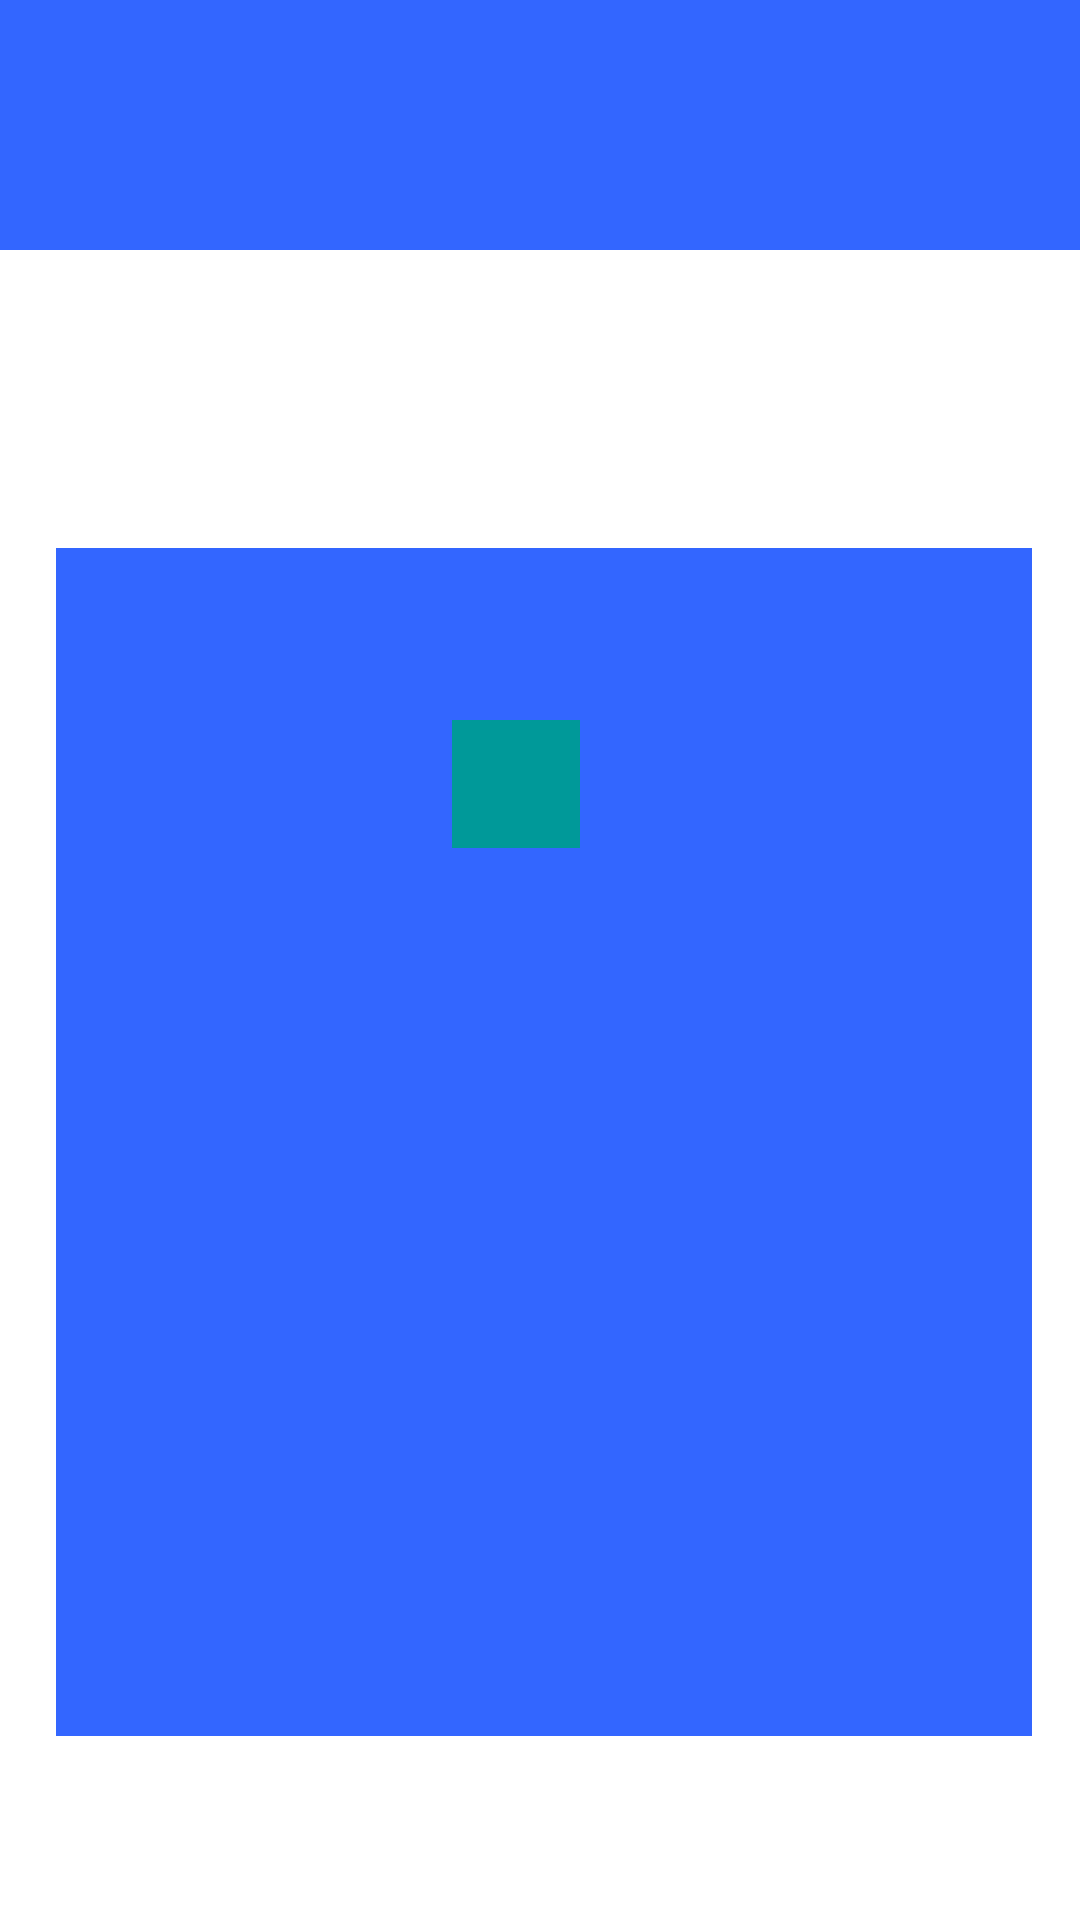
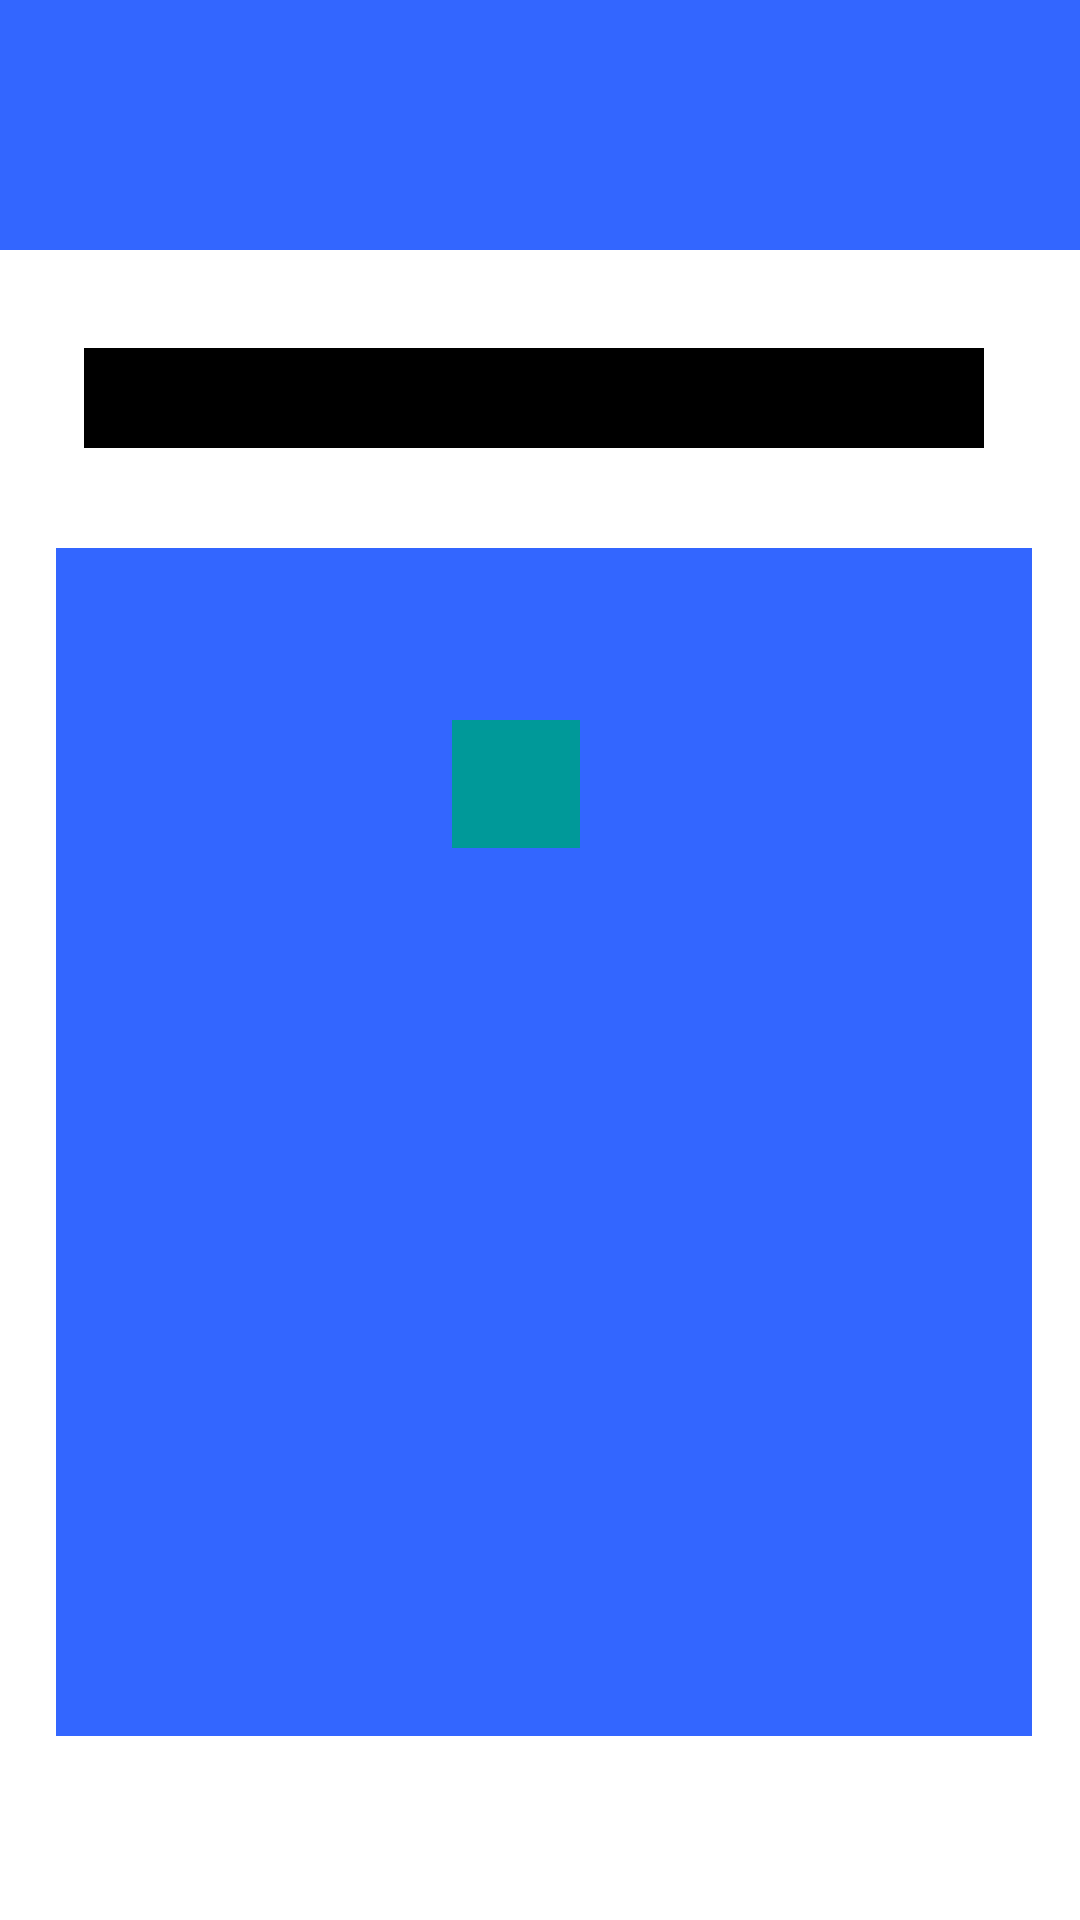
Shows a timer ticking

Changed region(s): [[0.0611, 0.1562, 0.9167, 0.25]]

diff --git a/core/src/com/quiz/math_game_1/MathGame1.java b/core/src/com/quiz/math_game_1/MathGame1.java
@@ -1,12 +1,14 @@
 package com.quiz.math_game_1;
 
 import com.badlogic.gdx.Gdx;
+import com.badlogic.gdx.Input;
 import com.badlogic.gdx.graphics.Texture;
 import com.badlogic.gdx.graphics.g2d.Sprite;
 import com.badlogic.gdx.graphics.g2d.SpriteBatch;
 import com.badlogic.gdx.math.GridPoint2;
 import com.badlogic.gdx.math.Vector2;
 import com.badlogic.gdx.utils.Array;
+import com.badlogic.gdx.utils.TimeUtils;
 import com.quiz.game.Game;
 
 import java.util.Random;
@@ -20,6 +22,10 @@ public class MathGame1 {
     public static Array<Sprite> btns_clicked;
     public static Sprite btn_total_9;
     public static int btn_count = 3;
+
+    static Vector2 timer_size;
+    static Vector2 timer_pos;
+    public static Sprite timer_overlay;
 
     MG1_btn[][] mg1_btns;
 
@@ -36,7 +42,24 @@ public class MathGame1 {
         // The width and height of the MG1 buttons
         _btn_width = Game.WORLD_WIDTH * 200/1080; //also the height
 
+        float overlay_width = Game.WORLD_WIDTH * 900/1080;
+        timer_size = new Vector2(overlay_width, overlay_width/9f);
+        timer_pos = new Vector2(Game.WORLD_WIDTH_HALF - timer_size.x/2, (Game.WORLD_HEIGHT - (overlay_width/9f) - 0.1f) - timer_size.y/2);
+        timer_overlay = new Sprite(new Texture("math-game-1/timer-overlay.png"));
+        timer_overlay.setSize(timer_size.x, timer_size.y);
+        timer_overlay.setPosition(Game.WORLD_WIDTH_HALF, Game.WORLD_HEIGHT - (overlay_width/9f) - 0.1f);
+
         setup_btns();
+    }
+
+    long _start_time = 0;
+    public void activate(){
+        //start the timer
+        _start_time = TimeUtils.nanoTime();
+    }
+
+    public void pause(){
+        _start_time = -1;
     }
 
     private void setup_btns(){
@@ -123,26 +146,17 @@ public class MathGame1 {
         }
 
         if(_state_of_touch == 2){
-            if(which_points.size == 0){
-                //find any btn and add it
-                Vector2 touch = getTouchRelativeToBtns();
+            Vector2 touch = getTouchRelativeToBtns();
 
-                int tx = (int)touch.x;
-                int ty = (int)touch.y;
+            int tx = (int)touch.x;
+            int ty = (int)touch.y;
 
-                if(tx >= 0 && tx < _width && ty >= 0 && ty < _height){
+            if(tx >= 0 && tx < _width && ty >= 0 && ty < _height){
+                if(which_points.size == 0){
                     mg1_btns[tx][ty].activate();
                     GridPoint2 p = new GridPoint2(tx, ty);
                     which_points.add(p);
-                }
-            }else {
-                //only adjacent btns
-                Vector2 touch = getTouchRelativeToBtns();
-
-                int tx = (int)touch.x;
-                int ty = (int)touch.y;
-
-                if (tx >= 0 && tx < _width && ty >= 0 && ty < _height) {
+                }else {
                     if (pointIsntInsideArray(tx, ty, which_points)) {
                         GridPoint2 last_point = which_points.get(which_points.size - 1);
                         int rx = Math.abs(tx - Math.round(last_point.x));
@@ -175,13 +189,33 @@ public class MathGame1 {
                 }
 
                 if(count != 9){
-                    Gdx.input.vibrate(500);
+                    Gdx.input.vibrate(300);
                 }
 
                 which_points.clear();
             }
         }
+
+
+        //Update timer
+        long cur_time = TimeUtils.nanoTime();
+        long time_diff = cur_time - _start_time;
+
+        long one_second = 1000000000;
+        long duration = one_second * 15;
+        _percentage = Math.max(1.0f - (time_diff+0.f) / (duration+0.f), 0.0f);
+        Gdx.app.log("%", Float.toString(_percentage));
+//        timer_overlay.setSize(8f * percentage, 2f);
+
+
+
+        if(Gdx.input.isKeyPressed(Input.Keys.BACK)){
+            this.pause();
+            Game.changeState(Game.STATE_MENU);
+        }
     }
+    float _percentage = 0f;
+
     public void render(SpriteBatch batch){
         batch.draw(btn_total_9, Game.WORLD_WIDTH_HALF - btn_total_9.getWidth()/2, 11f, btn_total_9.getWidth(), btn_total_9.getHeight());
 
@@ -190,5 +224,12 @@ public class MathGame1 {
                 mg1_btns[w][h].render(batch);
             }
         }
+
+//        Game.drawSpriteX(batch, timer_overlay);
+        batch.draw(timer_overlay.getTexture(),
+                0.5f, 15f,              //screen draw x/y
+                9f * _percentage, -1f,  //screen width/height
+                0f, 0f,                 //src x/y
+                _percentage, 1f);       //src w/h as a percentage of original texture
     }
 }

diff --git a/core/src/com/quiz/game/Game.java b/core/src/com/quiz/game/Game.java
@@ -39,6 +39,8 @@ public class Game extends ApplicationAdapter {
 	public static int STATE_GAME = 1;
 	public static int STATE_PHYSICS = 2;
 
+
+
 	SpriteBatch batch;
 	Texture img;
 	public static Camera camera;
@@ -81,6 +83,8 @@ public class Game extends ApplicationAdapter {
 
 		System.out.println("w: " + WORLD_WIDTH + "; h: " + WORLD_HEIGHT);
 		System.out.println("ratio: "+ WORLD_RATIO);
+
+		Gdx.input.setCatchBackKey(true);
 	}
 
 	public static Vector2 getWorldCoords(){
@@ -94,6 +98,8 @@ public class Game extends ApplicationAdapter {
 
 	public static void changeState(int newState){
 		state = newState;
+
+		if(newState == 1) game.activate();
 	}
 
 	public static void drawSpriteX(SpriteBatch batch, Sprite sprite) {

diff --git a/core/src/com/quiz/scenes/SceneGame.java b/core/src/com/quiz/scenes/SceneGame.java
@@ -30,6 +30,10 @@ public class SceneGame {
         mg1.update();
     }
 
+    public void activate(){
+        mg1.activate();
+    }
+
     public void render(SpriteBatch batch){
         Gdx.gl.glClearColor(0.5f, 0.55f, 0.7f, 1);
         Gdx.gl.glClear(GL20.GL_COLOR_BUFFER_BIT);
